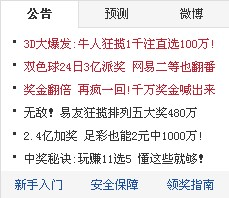
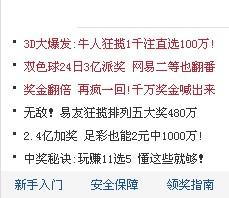
asd

diff --git a/index.html b/index.html
@@ -9,6 +9,19 @@
  <script type="text/javascript" src="./js/jquery.XYTipsWindow.min.2.8.js"></script>
  <script type="text/javascript" src="./js/jq.js"></script>
  <script type="text/javascript" src="./js/index_login_register.js"></script>
+    <script type="text/javascript">
+		$(function() {
+			//带参数遍历哥哥选项卡
+			$("#menutext li").each(function(index) {
+				$(this).hover(function() {//注册每个选项卡的单击事件
+					//移除已选中的样式
+					$("#menutext li.tabFocus").removeClass("tabFocus");
+					$(this).addClass("tabFocus");//增加当前选中项的内容
+					$("#contenttext li:eq(" + index + ")").show().siblings().hide();
+				});
+			});
+		})
+	</script>
 <link rel="stylesheet" href="./css/style.css" />
 </head>
 <body>
@@ -75,6 +88,16 @@
 
             </div>
             <div class="promotion_text">
+            		<ul id="menutext">
+    					<li class="tabFocus">公告</li>
+       					 <li>预测</li>
+       					 <li>微博</li>
+   					 </ul>
+   					 <ul id="contenttext">
+  					  	<li class="conFocus"><img src="images/gonggao1.jpg" /></li>
+  					      <li><img src="images/gonggao2.jpg" /></li>
+    				    <li><img src="images/gonggao3.jpg" /></li>
+    				</ul>
             </div>
         </div>
         <div id="quickbuyBox">

diff --git a/css/style.css b/css/style.css
@@ -213,12 +213,28 @@ body {
 }
 .promotion_text {
 	height:200px;
+	width:220px;
 	background:url(../images/gonggao.jpg)  no-repeat center;
 	position:absolute;
 	top:37px;
-	left:519px;
+	left:525px;
 	right:5px;
 }
+
+		#promotion ul,li{margin:0;padding:0;list-style:none}
+		#menutext li {text-align:center;float:left;padding:5px;
+		margin-right:2px;width:50px;cursor:pointer}
+		#menutext li.tabFocus{width:79px;font-weight:bold;
+		background-color:#f3f2e7;border:solid 1px #666;
+		border-bottom:0;z-index:100;
+		position:relative}
+		#contenttext{width:230px;height:143px;padding:10px;
+		background-color:#fff;clear:left;
+		border:solid 1px #666;
+		position:relative;top:-1px}
+		#contenttext li{display:none}
+		#contenttext li.conFocus{display:block}
+
 .quickbuy_title {
 	height:31px;
 	position:absolute;
